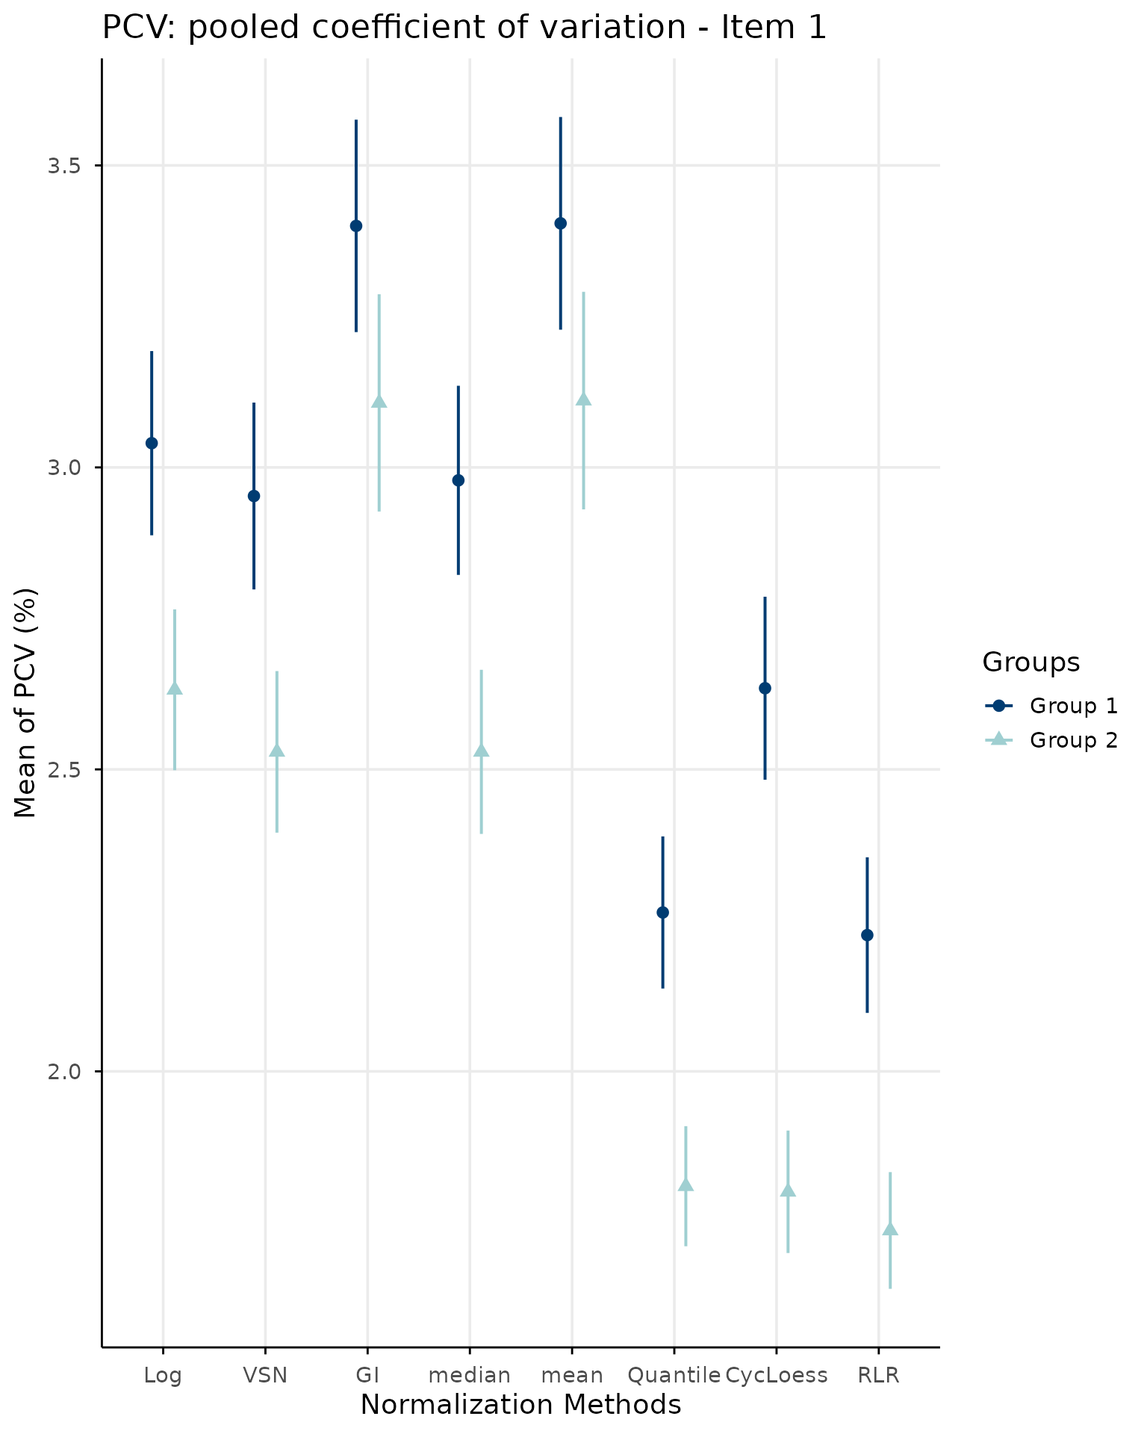
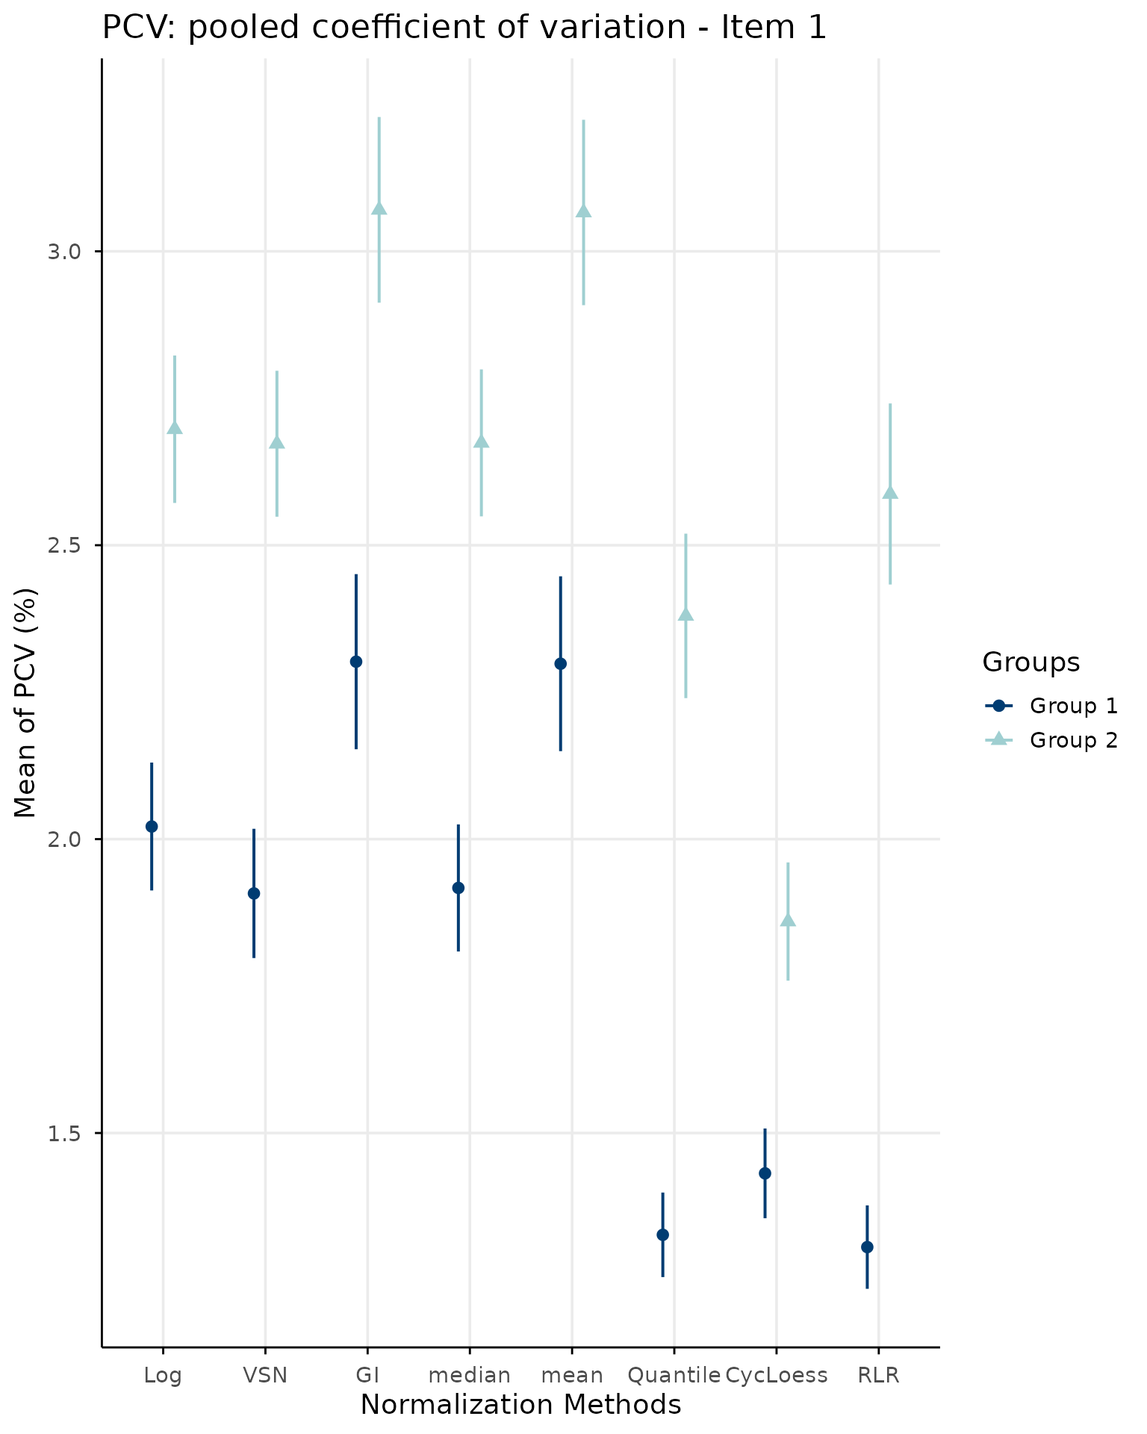
Deploying to gh-pages from @ juliagcurras/normScore@9f7eab61907ba5c156b98272ba93e6fb30f3db6c 🚀

diff --git a/reference/normScore.html b/reference/normScore.html
@@ -214,36 +214,36 @@ is performed.The results can be visualized using
 <span class="r-msg co"><span class="r-pr">#&gt;</span>             'normalizedDataList' as 'Log'.</span>
 <span class="r-in"><span><span class="va">result</span></span></span>
 <span class="r-out co"><span class="r-pr">#&gt;</span> $finalRanking</span>
-<span class="r-out co"><span class="r-pr">#&gt;</span>        Log      Norm5      Norm2      Norm1      Norm6      Norm3      Norm4 </span>
-<span class="r-out co"><span class="r-pr">#&gt;</span> 0.07079693 1.28431816 1.91416771 2.41162482 2.63643762 3.09313202 3.65587983 </span>
+<span class="r-out co"><span class="r-pr">#&gt;</span>        Log      Norm5      Norm6      Norm2      Norm1      Norm3      Norm4 </span>
+<span class="r-out co"><span class="r-pr">#&gt;</span> 0.06470467 1.25135716 1.89862636 1.90889209 2.38617798 3.04014697 3.63334351 </span>
 <span class="r-out co"><span class="r-pr">#&gt;</span> </span>
 <span class="r-out co"><span class="r-pr">#&gt;</span> $detailRanking</span>
 <span class="r-out co"><span class="r-pr">#&gt;</span>           Item1 Item2     Item3     Item4     Item5      Item6    Total</span>
-<span class="r-out co"><span class="r-pr">#&gt;</span> Log   0.4713758   0.1 0.5000000 0.8142192 0.4999485 0.08450405 2.470048</span>
-<span class="r-out co"><span class="r-pr">#&gt;</span> Norm5 0.4713758   0.1 0.0000000 0.6284383 0.0000000 0.08450405 1.284318</span>
-<span class="r-out co"><span class="r-pr">#&gt;</span> Norm2 0.0000000   0.1 0.5000000 0.8142192 0.4999485 0.00000000 1.914168</span>
-<span class="r-out co"><span class="r-pr">#&gt;</span> Norm1 0.4218242   0.1 0.5000000 0.8142192 0.4999485 0.07563292 2.411625</span>
-<span class="r-out co"><span class="r-pr">#&gt;</span> Norm6 0.4713758   0.0 0.8346731 0.0000000 0.3303888 1.00000000 2.636438</span>
-<span class="r-out co"><span class="r-pr">#&gt;</span> Norm3 1.0000000   0.1 0.5000000 0.8142192 0.4999485 0.17896431 3.093132</span>
-<span class="r-out co"><span class="r-pr">#&gt;</span> Norm4 0.4713758   0.1 1.0000000 1.0000000 1.0000000 0.08450405 3.655880</span>
+<span class="r-out co"><span class="r-pr">#&gt;</span> Log   0.4713738   0.1 0.5000000 0.8090068 0.4998853 0.06196976 2.442236</span>
+<span class="r-out co"><span class="r-pr">#&gt;</span> Norm5 0.4713738   0.1 0.0000000 0.6180136 0.0000000 0.06196976 1.251357</span>
+<span class="r-out co"><span class="r-pr">#&gt;</span> Norm6 0.4713738   0.0 0.3582391 0.0000000 0.0690135 1.00000000 1.898626</span>
+<span class="r-out co"><span class="r-pr">#&gt;</span> Norm2 0.0000000   0.1 0.5000000 0.8090068 0.4998853 0.00000000 1.908892</span>
+<span class="r-out co"><span class="r-pr">#&gt;</span> Norm1 0.4218222   0.1 0.5000000 0.8090068 0.4998853 0.05546369 2.386178</span>
+<span class="r-out co"><span class="r-pr">#&gt;</span> Norm3 1.0000000   0.1 0.5000000 0.8090068 0.4998853 0.13125488 3.040147</span>
+<span class="r-out co"><span class="r-pr">#&gt;</span> Norm4 0.4713738   0.1 1.0000000 1.0000000 1.0000000 0.06196976 3.633344</span>
 <span class="r-out co"><span class="r-pr">#&gt;</span>       TotalxItem0</span>
-<span class="r-out co"><span class="r-pr">#&gt;</span> Log    0.07079693</span>
-<span class="r-out co"><span class="r-pr">#&gt;</span> Norm5  1.28431816</span>
-<span class="r-out co"><span class="r-pr">#&gt;</span> Norm2  1.91416771</span>
-<span class="r-out co"><span class="r-pr">#&gt;</span> Norm1  2.41162482</span>
-<span class="r-out co"><span class="r-pr">#&gt;</span> Norm6  2.63643762</span>
-<span class="r-out co"><span class="r-pr">#&gt;</span> Norm3  3.09313202</span>
-<span class="r-out co"><span class="r-pr">#&gt;</span> Norm4  3.65587983</span>
+<span class="r-out co"><span class="r-pr">#&gt;</span> Log    0.06470467</span>
+<span class="r-out co"><span class="r-pr">#&gt;</span> Norm5  1.25135716</span>
+<span class="r-out co"><span class="r-pr">#&gt;</span> Norm6  1.89862636</span>
+<span class="r-out co"><span class="r-pr">#&gt;</span> Norm2  1.90889209</span>
+<span class="r-out co"><span class="r-pr">#&gt;</span> Norm1  2.38617798</span>
+<span class="r-out co"><span class="r-pr">#&gt;</span> Norm3  3.04014697</span>
+<span class="r-out co"><span class="r-pr">#&gt;</span> Norm4  3.63334351</span>
 <span class="r-out co"><span class="r-pr">#&gt;</span> </span>
 <span class="r-out co"><span class="r-pr">#&gt;</span> $bootstrapScore</span>
-<span class="r-out co"><span class="r-pr">#&gt;</span>   normalization meanNormScore      ll95       ul95</span>
-<span class="r-out co"><span class="r-pr">#&gt;</span> 1           Log     0.1393238 0.0545619  0.2674648</span>
-<span class="r-out co"><span class="r-pr">#&gt;</span> 2         Norm5     3.7364414 1.1994417  7.1184431</span>
-<span class="r-out co"><span class="r-pr">#&gt;</span> 3         Norm2     5.4469503 1.3080386 10.7193999</span>
-<span class="r-out co"><span class="r-pr">#&gt;</span> 4         Norm1     6.8978096 2.2940229 13.1223678</span>
-<span class="r-out co"><span class="r-pr">#&gt;</span> 5         Norm6     7.3844707 1.7794351 14.3342643</span>
-<span class="r-out co"><span class="r-pr">#&gt;</span> 6         Norm3     8.8855229 3.1746362 16.6470613</span>
-<span class="r-out co"><span class="r-pr">#&gt;</span> 7         Norm4    10.4002546 3.3071218 19.7737763</span>
+<span class="r-out co"><span class="r-pr">#&gt;</span>   normalization meanNormScore       ll95       ul95</span>
+<span class="r-out co"><span class="r-pr">#&gt;</span> 1           Log     0.1272803 0.04953453  0.2443309</span>
+<span class="r-out co"><span class="r-pr">#&gt;</span> 2         Norm5     3.6447895 1.19943768  6.9190588</span>
+<span class="r-out co"><span class="r-pr">#&gt;</span> 3         Norm6     5.3190620 1.00082168 10.5092757</span>
+<span class="r-out co"><span class="r-pr">#&gt;</span> 4         Norm2     5.4317108 1.30505629 10.6884795</span>
+<span class="r-out co"><span class="r-pr">#&gt;</span> 5         Norm1     6.8275021 2.26231887 12.9677234</span>
+<span class="r-out co"><span class="r-pr">#&gt;</span> 6         Norm3     8.7400366 3.11009102 16.3235006</span>
+<span class="r-out co"><span class="r-pr">#&gt;</span> 7         Norm4    10.3387300 3.25530477 19.6738705</span>
 <span class="r-out co"><span class="r-pr">#&gt;</span> </span>
 <span class="r-in"><span></span></span>
 </code></pre></div>

diff --git a/articles/normScore-MorePackages.html b/articles/normScore-MorePackages.html
@@ -252,28 +252,28 @@ component:</p>
 <span><span class="co">#&gt; [1] "finalRanking"   "detailRanking"  "bootstrapScore"</span></span>
 <span></span>
 <span><span class="va">normScoreResults</span><span class="op">$</span><span class="va">finalRanking</span></span>
-<span><span class="co">#&gt;  Quantile       RLR  CycLoess    median       VSN       Log        GI      mean </span></span>
-<span><span class="co">#&gt; 0.1025847 0.2039073 0.5898646 2.4643634 3.1097419 3.8960377 4.9754733 4.9798208</span></span></code></button></li>
+<span><span class="co">#&gt;  CycLoess  Quantile       RLR    median       VSN       Log      mean        GI </span></span>
+<span><span class="co">#&gt; 0.1146664 0.5337718 0.8057344 2.6233468 3.2082820 3.5259282 5.0300702 5.0353495</span></span></code></button></li>
 <li role="presentation" class="nav-item"><button data-bs-toggle="tab" data-bs-target="#NA" id="NA-tab" type="button" role="tab" aria-controls="NA" aria-selected="false" class="nav-link">
 <code class="sourceCode R"><span><span class="va">normScoreResults</span><span class="op">$</span><span class="va">detailRanking</span></span>
-<span><span class="co">#&gt;               Item1 Item2       Item3      Item4      Item5     Item6     Total</span></span>
-<span><span class="co">#&gt; Quantile 0.04338556   0.0 0.059199169 0.00000000 0.00000000 0.0000000 0.1025847</span></span>
-<span><span class="co">#&gt; RLR      0.00000000   0.0 0.000000000 0.04746154 0.03016297 0.1262828 0.2039073</span></span>
-<span><span class="co">#&gt; CycLoess 0.18523794   0.1 0.007959995 0.03963088 0.11785684 0.1391789 0.5898646</span></span>
-<span><span class="co">#&gt; median   0.60545136   0.0 0.910011452 0.37020064 0.10418382 0.4745161 2.4643634</span></span>
-<span><span class="co">#&gt; VSN      0.59527928   0.0 0.917141279 0.96444456 0.12439911 0.5084777 3.1097419</span></span>
-<span><span class="co">#&gt; Log      0.66981237   0.0 1.000000000 0.35432543 0.46707655 0.6661774 3.1573918</span></span>
-<span><span class="co">#&gt; GI       0.99686748   0.0 0.979820768 1.00000000 1.00000000 0.9987850 4.9754733</span></span>
-<span><span class="co">#&gt; mean     1.00000000   0.0 0.979820768 1.00000000 1.00000000 1.0000000 4.9798208</span></span>
+<span><span class="co">#&gt;              Item1 Item2      Item3       Item4     Item5     Item6     Total</span></span>
+<span><span class="co">#&gt; CycLoess 0.0000000   0.0 0.00000000 0.005642598 0.0000000 0.1090238 0.1146664</span></span>
+<span><span class="co">#&gt; Quantile 0.1995836   0.1 0.12108497 0.000000000 0.1131033 0.0000000 0.5337718</span></span>
+<span><span class="co">#&gt; RLR      0.2891989   0.1 0.03355444 0.024553161 0.1786779 0.1797500 0.8057344</span></span>
+<span><span class="co">#&gt; median   0.6245702   0.1 0.90508889 0.381038667 0.1323728 0.4802762 2.6233468</span></span>
+<span><span class="co">#&gt; VSN      0.6193697   0.1 0.91274714 0.922820559 0.1407907 0.5125538 3.2082820</span></span>
+<span><span class="co">#&gt; Log      0.6859264   0.1 1.00000000 0.380046812 0.5158417 0.7027628 3.3845777</span></span>
+<span><span class="co">#&gt; mean     0.9961761   0.1 0.93534954 1.000000000 1.0000000 0.9985446 5.0300702</span></span>
+<span><span class="co">#&gt; GI       1.0000000   0.1 0.93534954 1.000000000 1.0000000 1.0000000 5.0353495</span></span>
 <span><span class="co">#&gt;          TotalxItem0</span></span>
-<span><span class="co">#&gt; Quantile   0.1025847</span></span>
-<span><span class="co">#&gt; RLR        0.2039073</span></span>
-<span><span class="co">#&gt; CycLoess   0.5898646</span></span>
-<span><span class="co">#&gt; median     2.4643634</span></span>
-<span><span class="co">#&gt; VSN        3.1097419</span></span>
-<span><span class="co">#&gt; Log        3.8960377</span></span>
-<span><span class="co">#&gt; GI         4.9754733</span></span>
-<span><span class="co">#&gt; mean       4.9798208</span></span></code></button></li>
+<span><span class="co">#&gt; CycLoess   0.1146664</span></span>
+<span><span class="co">#&gt; Quantile   0.5337718</span></span>
+<span><span class="co">#&gt; RLR        0.8057344</span></span>
+<span><span class="co">#&gt; median     2.6233468</span></span>
+<span><span class="co">#&gt; VSN        3.2082820</span></span>
+<span><span class="co">#&gt; Log        3.5259282</span></span>
+<span><span class="co">#&gt; mean       5.0300702</span></span>
+<span><span class="co">#&gt; GI         5.0353495</span></span></code></button></li>
 <li role="presentation" class="nav-item"><button data-bs-toggle="tab" data-bs-target="#NA" id="NA-tab" type="button" role="tab" aria-controls="NA" aria-selected="false" class="nav-link">
 <code class="sourceCode R"><span><span class="va">allPlots</span> <span class="op">&lt;-</span> <span class="fu"><a href="../reference/plotNormScoreDiagnostics.html">plotNormScoreDiagnostics</a></span><span class="op">(</span></span>
 <span>    normalizedDataList <span class="op">=</span> <span class="va">normalizedDataList</span>, </span>

diff --git a/articles/normScore-intro.html b/articles/normScore-intro.html
@@ -192,7 +192,7 @@ score for each normalization method.</p>
 <div class="sourceCode" id="cb6"><pre class="downlit sourceCode r">
 <code class="sourceCode R"><span><span class="va">result</span><span class="op">$</span><span class="va">finalRanking</span></span>
 <span><span class="co">#&gt;    Quantile CyclicLoess      Median         Log </span></span>
-<span><span class="co">#&gt;   0.2166984   1.3760648   2.7910586   5.9883198</span></span></code></pre></div>
+<span><span class="co">#&gt;   0.3472501   0.4976523   3.3361530   5.6062588</span></span></code></pre></div>
 <p>Lower values indicate better normalization performance according to
 the scoring framework implemented in the package.</p>
 </div>
@@ -203,16 +203,16 @@ the scoring framework implemented in the package.</p>
 scores used to build the final ranking.</p>
 <div class="sourceCode" id="cb7"><pre class="downlit sourceCode r">
 <code class="sourceCode R"><span><span class="va">result</span><span class="op">$</span><span class="va">detailRanking</span></span>
-<span><span class="co">#&gt;                 Item1 Item2     Item3     Item4     Item5     Item6     Total</span></span>
-<span><span class="co">#&gt; Quantile    0.0000000   0.0 0.0000000 0.0000000 0.2166984 0.0000000 0.2166984</span></span>
-<span><span class="co">#&gt; CyclicLoess 0.1531998   0.1 0.2041703 0.1741166 0.6298636 0.1147144 1.3760648</span></span>
-<span><span class="co">#&gt; Median      0.9602883   0.0 0.9576886 0.1415680 0.0000000 0.7315137 2.7910586</span></span>
-<span><span class="co">#&gt; Log         1.0000000   0.0 1.0000000 1.0000000 1.0000000 1.0000000 5.0000000</span></span>
+<span><span class="co">#&gt;                  Item1 Item2      Item3     Item4     Item5     Item6     Total</span></span>
+<span><span class="co">#&gt; Quantile    0.09933769   0.0 0.00000000 0.0000000 0.2479124 0.0000000 0.3472501</span></span>
+<span><span class="co">#&gt; CyclicLoess 0.00000000   0.1 0.08737989 0.1708294 0.0000000 0.1394430 0.4976523</span></span>
+<span><span class="co">#&gt; Median      0.94601993   0.0 0.95378106 0.3503664 0.3663703 0.7196153 3.3361530</span></span>
+<span><span class="co">#&gt; Log         1.00000000   0.0 1.00000000 1.0000000 1.0000000 1.0000000 5.0000000</span></span>
 <span><span class="co">#&gt;             TotalxItem0</span></span>
-<span><span class="co">#&gt; Quantile      0.2166984</span></span>
-<span><span class="co">#&gt; CyclicLoess   1.3760648</span></span>
-<span><span class="co">#&gt; Median        2.7910586</span></span>
-<span><span class="co">#&gt; Log           5.9883198</span></span></code></pre></div>
+<span><span class="co">#&gt; Quantile      0.3472501</span></span>
+<span><span class="co">#&gt; CyclicLoess   0.4976523</span></span>
+<span><span class="co">#&gt; Median        3.3361530</span></span>
+<span><span class="co">#&gt; Log           5.6062588</span></span></code></pre></div>
 <p>The six item scores correspond to:</p>
 <ol style="list-style-type: decimal">
 <li>pooled coefficient of variation</li>
@@ -232,10 +232,10 @@ bootstrap-based summary scores and confidence intervals.</p>
 <div class="sourceCode" id="cb8"><pre class="downlit sourceCode r">
 <code class="sourceCode R"><span><span class="va">result</span><span class="op">$</span><span class="va">bootstrapScore</span></span>
 <span><span class="co">#&gt;   normalization meanNormScore      ll95      ul95</span></span>
-<span><span class="co">#&gt; 1      Quantile     0.6197575 0.1722891  1.083492</span></span>
-<span><span class="co">#&gt; 2   CyclicLoess     3.9641881 1.4912559  7.091613</span></span>
-<span><span class="co">#&gt; 3        Median     8.0256886 3.2255385 14.299405</span></span>
-<span><span class="co">#&gt; 4           Log    18.3192798 7.1859837 33.975258</span></span></code></pre></div>
+<span><span class="co">#&gt; 1      Quantile      1.001082 0.2980131  1.845679</span></span>
+<span><span class="co">#&gt; 2   CyclicLoess      1.442139 0.5182585  2.531123</span></span>
+<span><span class="co">#&gt; 3        Median      9.593603 4.1514350 16.738587</span></span>
+<span><span class="co">#&gt; 4           Log     16.753519 6.7275106 30.269639</span></span></code></pre></div>
 <p>This output contains:</p>
 <ul>
 <li>the normalization method name</li>

diff --git a/articles/normScore-MorePackages.md b/articles/normScore-MorePackages.md
@@ -182,8 +182,8 @@ the corresponding component returned by the package:
 Similarly, diagnostic plots can be accessed from the plotting component:
 
 - `normScoreResults`` ``<-`` `[`normScore`](https://juliagcurras.github.io/normScore/reference/normScore.md)`(`` `` normalizedDataList ``=`` ``normalizedDataList``,`` `` groupData ``=`` ``groupData``,`` `` rawData ``=`` ``rawData`` ``)`
-- [`names`](https://rdrr.io/r/base/names.html)`(``normScoreResults``)`` ``#> [1] "finalRanking" "detailRanking" "bootstrapScore"`` `` ``normScoreResults``$``finalRanking`` ``#> Quantile RLR CycLoess median VSN Log GI mean `` ``#> 0.1025847 0.2039073 0.5898646 2.4643634 3.1097419 3.8960377 4.9754733 4.9798208`
-- `normScoreResults``$``detailRanking`` ``#> Item1 Item2 Item3 Item4 Item5 Item6 Total`` ``#> Quantile 0.04338556 0.0 0.059199169 0.00000000 0.00000000 0.0000000 0.1025847`` ``#> RLR 0.00000000 0.0 0.000000000 0.04746154 0.03016297 0.1262828 0.2039073`` ``#> CycLoess 0.18523794 0.1 0.007959995 0.03963088 0.11785684 0.1391789 0.5898646`` ``#> median 0.60545136 0.0 0.910011452 0.37020064 0.10418382 0.4745161 2.4643634`` ``#> VSN 0.59527928 0.0 0.917141279 0.96444456 0.12439911 0.5084777 3.1097419`` ``#> Log 0.66981237 0.0 1.000000000 0.35432543 0.46707655 0.6661774 3.1573918`` ``#> GI 0.99686748 0.0 0.979820768 1.00000000 1.00000000 0.9987850 4.9754733`` ``#> mean 1.00000000 0.0 0.979820768 1.00000000 1.00000000 1.0000000 4.9798208`` ``#> TotalxItem0`` ``#> Quantile 0.1025847`` ``#> RLR 0.2039073`` ``#> CycLoess 0.5898646`` ``#> median 2.4643634`` ``#> VSN 3.1097419`` ``#> Log 3.8960377`` ``#> GI 4.9754733`` ``#> mean 4.9798208`
+- [`names`](https://rdrr.io/r/base/names.html)`(``normScoreResults``)`` ``#> [1] "finalRanking" "detailRanking" "bootstrapScore"`` `` ``normScoreResults``$``finalRanking`` ``#> CycLoess Quantile RLR median VSN Log mean GI `` ``#> 0.1146664 0.5337718 0.8057344 2.6233468 3.2082820 3.5259282 5.0300702 5.0353495`
+- `normScoreResults``$``detailRanking`` ``#> Item1 Item2 Item3 Item4 Item5 Item6 Total`` ``#> CycLoess 0.0000000 0.0 0.00000000 0.005642598 0.0000000 0.1090238 0.1146664`` ``#> Quantile 0.1995836 0.1 0.12108497 0.000000000 0.1131033 0.0000000 0.5337718`` ``#> RLR 0.2891989 0.1 0.03355444 0.024553161 0.1786779 0.1797500 0.8057344`` ``#> median 0.6245702 0.1 0.90508889 0.381038667 0.1323728 0.4802762 2.6233468`` ``#> VSN 0.6193697 0.1 0.91274714 0.922820559 0.1407907 0.5125538 3.2082820`` ``#> Log 0.6859264 0.1 1.00000000 0.380046812 0.5158417 0.7027628 3.3845777`` ``#> mean 0.9961761 0.1 0.93534954 1.000000000 1.0000000 0.9985446 5.0300702`` ``#> GI 1.0000000 0.1 0.93534954 1.000000000 1.0000000 1.0000000 5.0353495`` ``#> TotalxItem0`` ``#> CycLoess 0.1146664`` ``#> Quantile 0.5337718`` ``#> RLR 0.8057344`` ``#> median 2.6233468`` ``#> VSN 3.2082820`` ``#> Log 3.5259282`` ``#> mean 5.0300702`` ``#> GI 5.0353495`
 - `allPlots`` ``<-`` `[`plotNormScoreDiagnostics`](https://juliagcurras.github.io/normScore/reference/plotNormScoreDiagnostics.md)`(`` `` normalizedDataList ``=`` ``normalizedDataList``, `` `` groupData ``=`` ``groupData``, `` `` rawData ``=`` ``rawData`` ``)`
 - item0
 - item1

diff --git a/reference/normScore.md b/reference/normScore.md
@@ -170,35 +170,35 @@ result <- normScore(
 #>             'normalizedDataList' as 'Log'.
 result
 #> $finalRanking
-#>        Log      Norm5      Norm2      Norm1      Norm6      Norm3      Norm4 
-#> 0.07079693 1.28431816 1.91416771 2.41162482 2.63643762 3.09313202 3.65587983 
+#>        Log      Norm5      Norm6      Norm2      Norm1      Norm3      Norm4 
+#> 0.06470467 1.25135716 1.89862636 1.90889209 2.38617798 3.04014697 3.63334351 
 #> 
 #> $detailRanking
 #>           Item1 Item2     Item3     Item4     Item5      Item6    Total
-#> Log   0.4713758   0.1 0.5000000 0.8142192 0.4999485 0.08450405 2.470048
-#> Norm5 0.4713758   0.1 0.0000000 0.6284383 0.0000000 0.08450405 1.284318
-#> Norm2 0.0000000   0.1 0.5000000 0.8142192 0.4999485 0.00000000 1.914168
-#> Norm1 0.4218242   0.1 0.5000000 0.8142192 0.4999485 0.07563292 2.411625
-#> Norm6 0.4713758   0.0 0.8346731 0.0000000 0.3303888 1.00000000 2.636438
-#> Norm3 1.0000000   0.1 0.5000000 0.8142192 0.4999485 0.17896431 3.093132
-#> Norm4 0.4713758   0.1 1.0000000 1.0000000 1.0000000 0.08450405 3.655880
+#> Log   0.4713738   0.1 0.5000000 0.8090068 0.4998853 0.06196976 2.442236
+#> Norm5 0.4713738   0.1 0.0000000 0.6180136 0.0000000 0.06196976 1.251357
+#> Norm6 0.4713738   0.0 0.3582391 0.0000000 0.0690135 1.00000000 1.898626
+#> Norm2 0.0000000   0.1 0.5000000 0.8090068 0.4998853 0.00000000 1.908892
+#> Norm1 0.4218222   0.1 0.5000000 0.8090068 0.4998853 0.05546369 2.386178
+#> Norm3 1.0000000   0.1 0.5000000 0.8090068 0.4998853 0.13125488 3.040147
+#> Norm4 0.4713738   0.1 1.0000000 1.0000000 1.0000000 0.06196976 3.633344
 #>       TotalxItem0
-#> Log    0.07079693
-#> Norm5  1.28431816
-#> Norm2  1.91416771
-#> Norm1  2.41162482
-#> Norm6  2.63643762
-#> Norm3  3.09313202
-#> Norm4  3.65587983
+#> Log    0.06470467
+#> Norm5  1.25135716
+#> Norm6  1.89862636
+#> Norm2  1.90889209
+#> Norm1  2.38617798
+#> Norm3  3.04014697
+#> Norm4  3.63334351
 #> 
 #> $bootstrapScore
-#>   normalization meanNormScore      ll95       ul95
-#> 1           Log     0.1393238 0.0545619  0.2674648
-#> 2         Norm5     3.7364414 1.1994417  7.1184431
-#> 3         Norm2     5.4469503 1.3080386 10.7193999
-#> 4         Norm1     6.8978096 2.2940229 13.1223678
-#> 5         Norm6     7.3844707 1.7794351 14.3342643
-#> 6         Norm3     8.8855229 3.1746362 16.6470613
-#> 7         Norm4    10.4002546 3.3071218 19.7737763
+#>   normalization meanNormScore       ll95       ul95
+#> 1           Log     0.1272803 0.04953453  0.2443309
+#> 2         Norm5     3.6447895 1.19943768  6.9190588
+#> 3         Norm6     5.3190620 1.00082168 10.5092757
+#> 4         Norm2     5.4317108 1.30505629 10.6884795
+#> 5         Norm1     6.8275021 2.26231887 12.9677234
+#> 6         Norm3     8.7400366 3.11009102 16.3235006
+#> 7         Norm4    10.3387300 3.25530477 19.6738705
 #> 
 ```

diff --git a/articles/normScore-intro.md b/articles/normScore-intro.md
@@ -138,7 +138,7 @@ normalization method.
 
 result$finalRanking
 #>    Quantile CyclicLoess      Median         Log 
-#>   0.2166984   1.3760648   2.7910586   5.9883198
+#>   0.3472501   0.4976523   3.3361530   5.6062588
 ```
 
 Lower values indicate better normalization performance according to the
@@ -152,16 +152,16 @@ build the final ranking.
 ``` r
 
 result$detailRanking
-#>                 Item1 Item2     Item3     Item4     Item5     Item6     Total
-#> Quantile    0.0000000   0.0 0.0000000 0.0000000 0.2166984 0.0000000 0.2166984
-#> CyclicLoess 0.1531998   0.1 0.2041703 0.1741166 0.6298636 0.1147144 1.3760648
-#> Median      0.9602883   0.0 0.9576886 0.1415680 0.0000000 0.7315137 2.7910586
-#> Log         1.0000000   0.0 1.0000000 1.0000000 1.0000000 1.0000000 5.0000000
+#>                  Item1 Item2      Item3     Item4     Item5     Item6     Total
+#> Quantile    0.09933769   0.0 0.00000000 0.0000000 0.2479124 0.0000000 0.3472501
+#> CyclicLoess 0.00000000   0.1 0.08737989 0.1708294 0.0000000 0.1394430 0.4976523
+#> Median      0.94601993   0.0 0.95378106 0.3503664 0.3663703 0.7196153 3.3361530
+#> Log         1.00000000   0.0 1.00000000 1.0000000 1.0000000 1.0000000 5.0000000
 #>             TotalxItem0
-#> Quantile      0.2166984
-#> CyclicLoess   1.3760648
-#> Median        2.7910586
-#> Log           5.9883198
+#> Quantile      0.3472501
+#> CyclicLoess   0.4976523
+#> Median        3.3361530
+#> Log           5.6062588
 ```
 
 The six item scores correspond to:
@@ -184,10 +184,10 @@ summary scores and confidence intervals.
 
 result$bootstrapScore
 #>   normalization meanNormScore      ll95      ul95
-#> 1      Quantile     0.6197575 0.1722891  1.083492
-#> 2   CyclicLoess     3.9641881 1.4912559  7.091613
-#> 3        Median     8.0256886 3.2255385 14.299405
-#> 4           Log    18.3192798 7.1859837 33.975258
+#> 1      Quantile      1.001082 0.2980131  1.845679
+#> 2   CyclicLoess      1.442139 0.5182585  2.531123
+#> 3        Median      9.593603 4.1514350 16.738587
+#> 4           Log     16.753519 6.7275106 30.269639
 ```
 
 This output contains:
